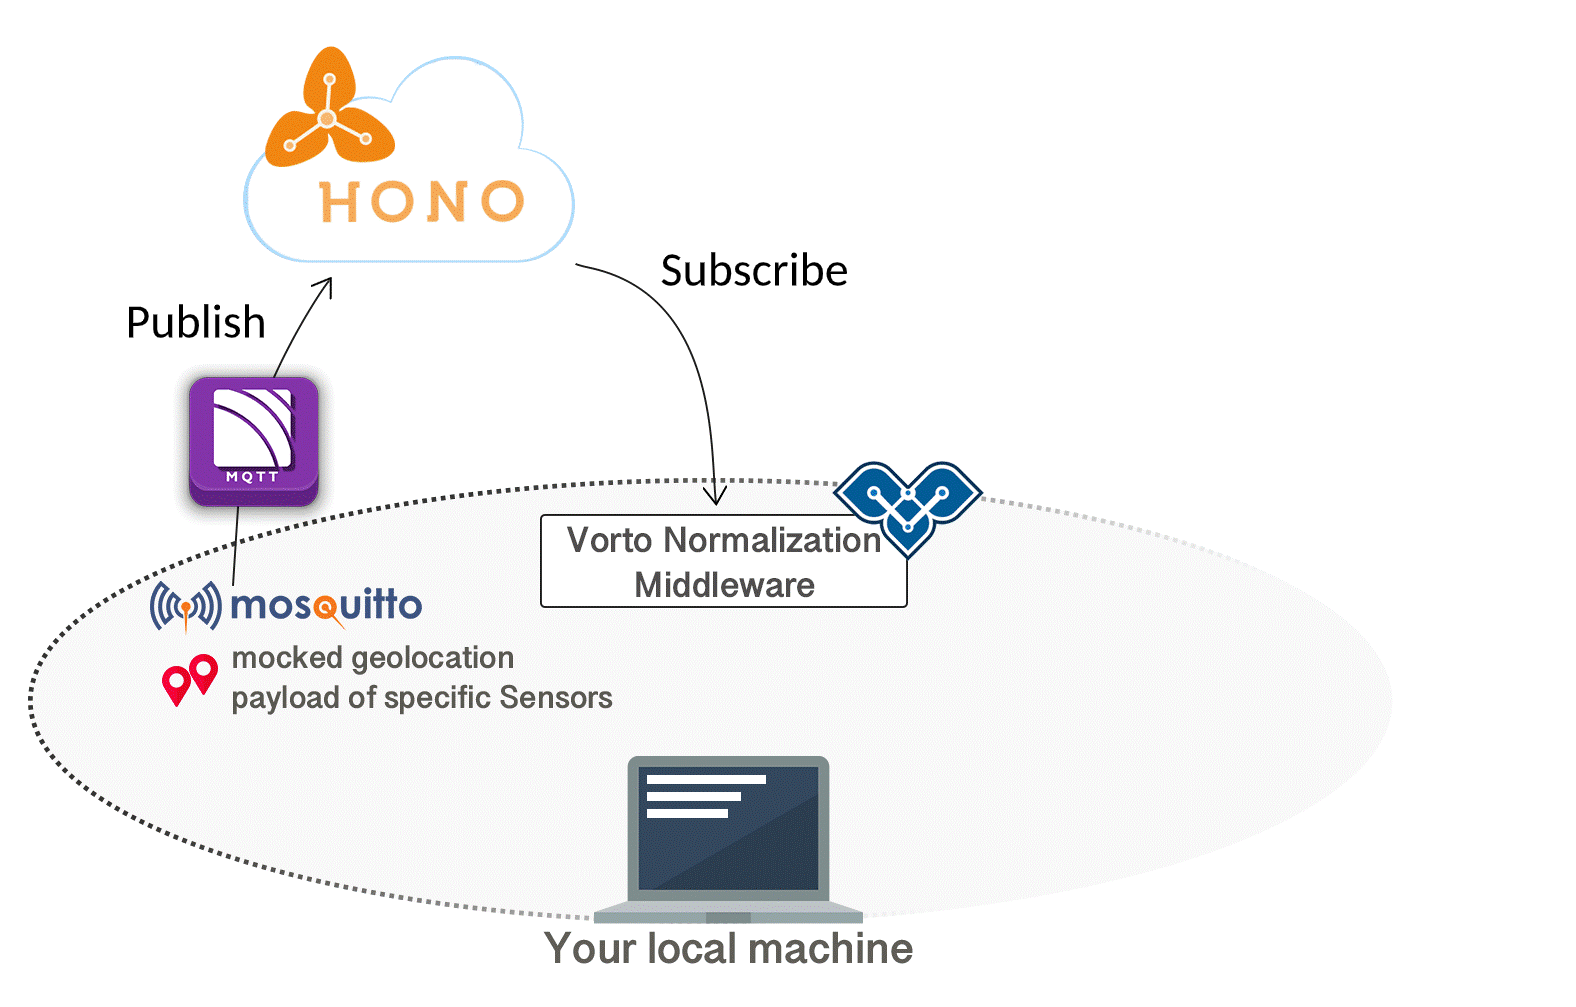
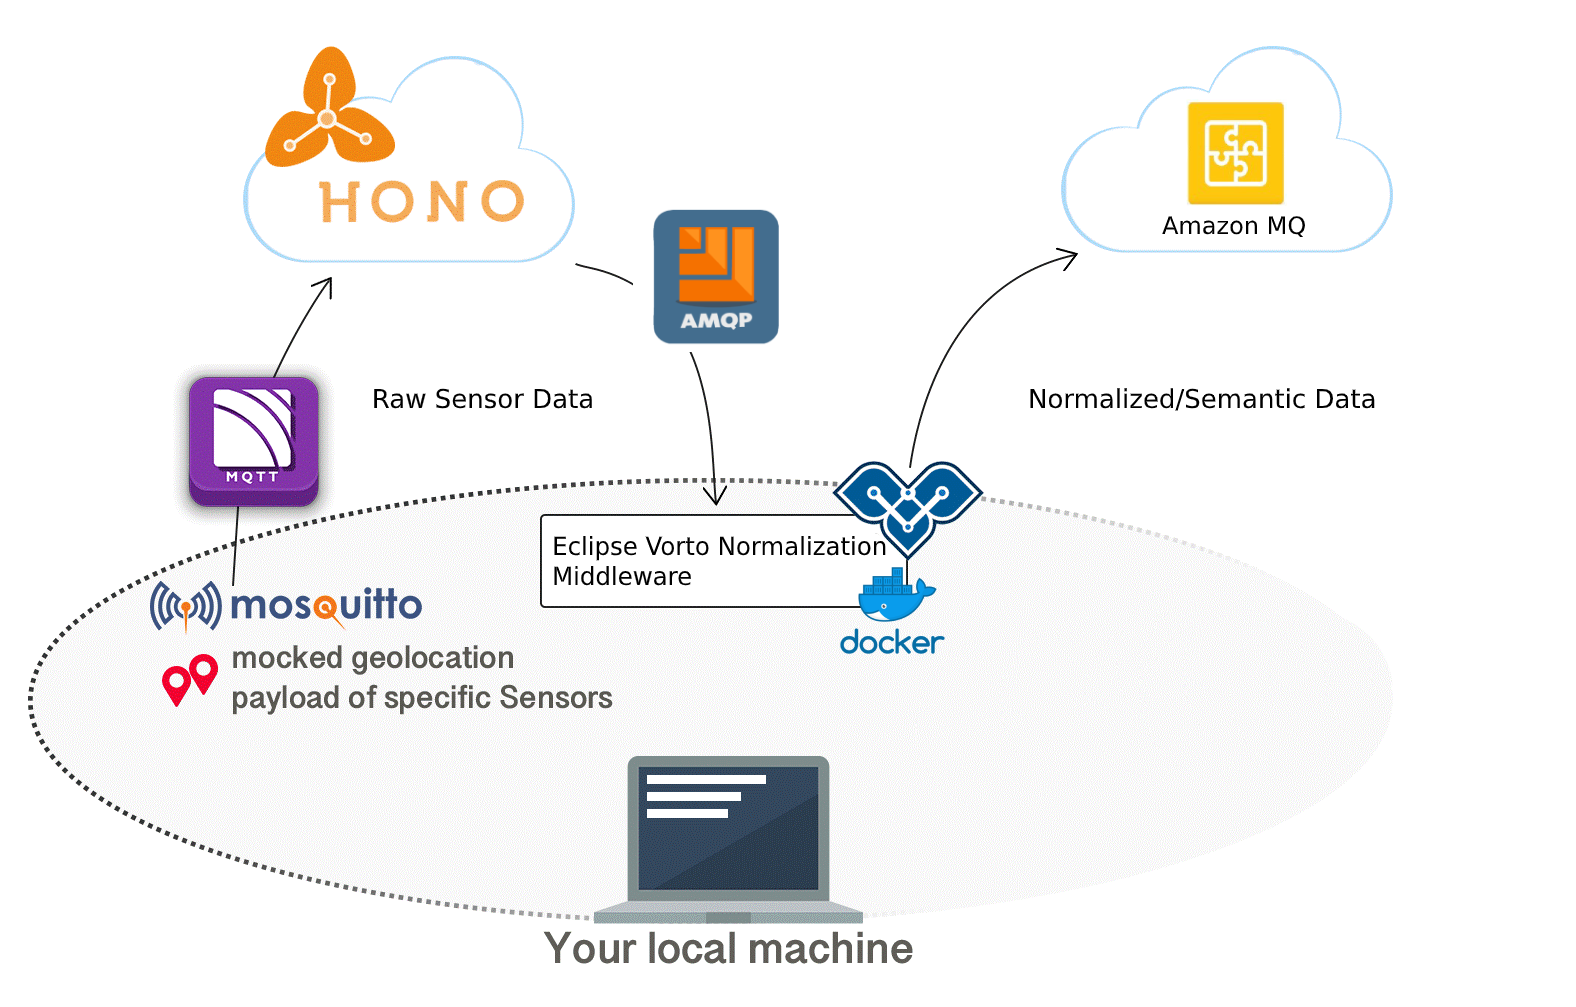
Fixed #2196

diff --git a/docs/tutorials/create_mapping_pipeline.md b/docs/tutorials/create_mapping_pipeline.md
@@ -221,6 +221,7 @@ You should be able to see the following mapped output:
 }
 ```
 
+<img src="../images/tutorials/decouple_tutorial/mappingEditor.png" />
 
 **Fantastic!** You have just created a mapping for one sensor that sends its payload as JSON. 
 
@@ -236,15 +237,21 @@ This completes the Vorto Modelling. In summary, we described two sensor types as
 
 In the next step, we are going to see these Vorto models and mappings in action.
 
-### 4. Setting up Eclipse Vorto Payload Normalization Middleware
+### 4. Setting up Eclipse Vorto Payload Normalization Middleware with Vorto AMQP Plugin 
 
 <img src="../images/tutorials/decouple_tutorial/stepOneOverview.png" />
 
 As seen in the picture, we will now setup the Eclipse Vorto Payload Normalization Middleware, which is a micro service written in Java, that consumes data from Eclipse Hono via AMQP and converts the data to semantic data structures, defined as Vorto Function Blocks. For this, the middleware utilizes the Mapping Specification that we created in the previous step. 
 
-Now start the middleware using the [Eclipse Vorto AMQP plugin](https://github.com/eclipse/vorto-examples/tree/master/vorto-middleware/middleware-ext-amqp) and mounting a _mappings_ folder which contains your sensor mapping specifications:
+Now for the normalized data to be consumed by our IoT application we will send the normalized data from middleware to Amazon MQ and in the next step configure the IoT application to receive data from the new endpoint.
 
-```docker run -it -p 8080:8080 -v //C/absolute_local_dir:/mappings -p 8080:8080 -e mapping_spec_dir=/mappings -e github.client.clientId=your_github_clientid -e github.client.clientSecret=your_github_clientsecret -e hono.tenantId=your_tenantId -e hono.password=your_hono_password eclipsevorto/vorto-normalizer:nightly```
+> Create an Amazon MQ Broker using the tutorial from AWS [here](https://docs.aws.amazon.com/amazon-mq/latest/developer-guide/amazon-mq-creating-configuring-broker.html).
+
+Now start the middleware using the [Eclipse Vorto AMQP plugin](https://github.com/eclipse/vorto-examples/tree/master/vorto-middleware/middleware-ext-amqp) and mounting a _mappings_ folder which contains your sensor mapping specifications. We will configure our IoT Solution to subscribe to the new AMQP endpoint in the next step.
+
+```
+docker run -it -p 8080:8080 -v c:/absolute_local_dir:/mappings -e mapping_spec_dir=/mappings -e github.client.clientId=your_github_clientid -e github.client.clientSecret=your_github_clientsecret -e hono.tenantId=your_tenantId -e hono.password=your_hono_password -e amqp.url=OpenWire_endpoint -e amqp.topic.vorto=telemetry/vorto -e amqp.username=myusername -e amqp.password=mypassword eclipsevorto/vorto-normalizer:nightly
+```
 
 Before we can start sending data via MQTT again, we need to make some changes to the Bosch IoT Hub Device Registry. These changes are required by the Vorto middleware to work properly. 
 
@@ -280,23 +287,14 @@ Repeat this step for the second device ID (4712) , with the following content:
 **Finally!** We are all set to start sending the same data as in **step 2** using `mosquitto_pub`. You should be able to see the normalized payload with the exact same structure for both sensor types in the Vorto Middleware [monitoring logs](http://localhost:8080/#/monitoring). 
 
 
-<img src="../images/tutorials/decouple_tutorial/normalized.png" />
+<img src="../images/tutorials/decouple_tutorial/middlewareMonitoringLog.png" />
 
 
-### 5. Make cloud application changes
+### 5. Make IoT application changes
 
 <img src="../images/tutorials/decouple_tutorial/stepTwoOverview.png" />
 
-In order to see the data in our IoT application again we need to send the normalized data into an MQ and then subscribe to it from our app. Let's use Amazon MQ to do this. 
-
-> Create an Amazon MQ Broker using the tutorial from AWS [here](https://docs.aws.amazon.com/amazon-mq/latest/developer-guide/amazon-mq-creating-configuring-broker.html).
-
-Restart docker with the new MQ credentials to publish data into Amazon MQ. We will configure our IoT Solution to subscribe to the new AMQP endpoint.
-
-```docker run -it -p 8080:8080 -v //C/absolute_local_dir:/mappings -p 8080:8080 -e mapping_spec_dir=/mappings -e github.client.clientId=your_github_clientid -e github.client.clientSecret=your_github_clientsecret -e hono.tenantId=your_tenantId -e hono.password=your_hono_password -e amqp.url=myurl -e amqp.topic.vorto=telemetry/vorto -e amqp.username=myusername -e amqp.password=mypassword eclipsevorto/vorto-normalizer:nightly```
-
-
-Now just change the configuration of the Geolocation IoT application, by pointing it to our new [Amazon MQ Broker](https://aws.amazon.com/amazon-mq/) AMQP endpoint, in order to receive the normalized geolocation sensor data.
+Change the configuration of the Geolocation IoT application, by pointing it to our new [Amazon MQ Broker](https://aws.amazon.com/amazon-mq/) AMQP endpoint, in order to receive the normalized geolocation sensor data.
 
 Please open the `application.yml` and replace the url, topic and credentials as seen below:
 
@@ -308,7 +306,7 @@ amqp:
   queue: telemetry/vorto
 ```
 
-When you start the application and send data for the two sensors via MQTT, you will now see the normalized geolocation data in the console of the application.
+When you start the application and send data for the two sensors via MQTT, you will see the normalized geolocation data printed in the console of the application.
 
 ## What's next?
 
